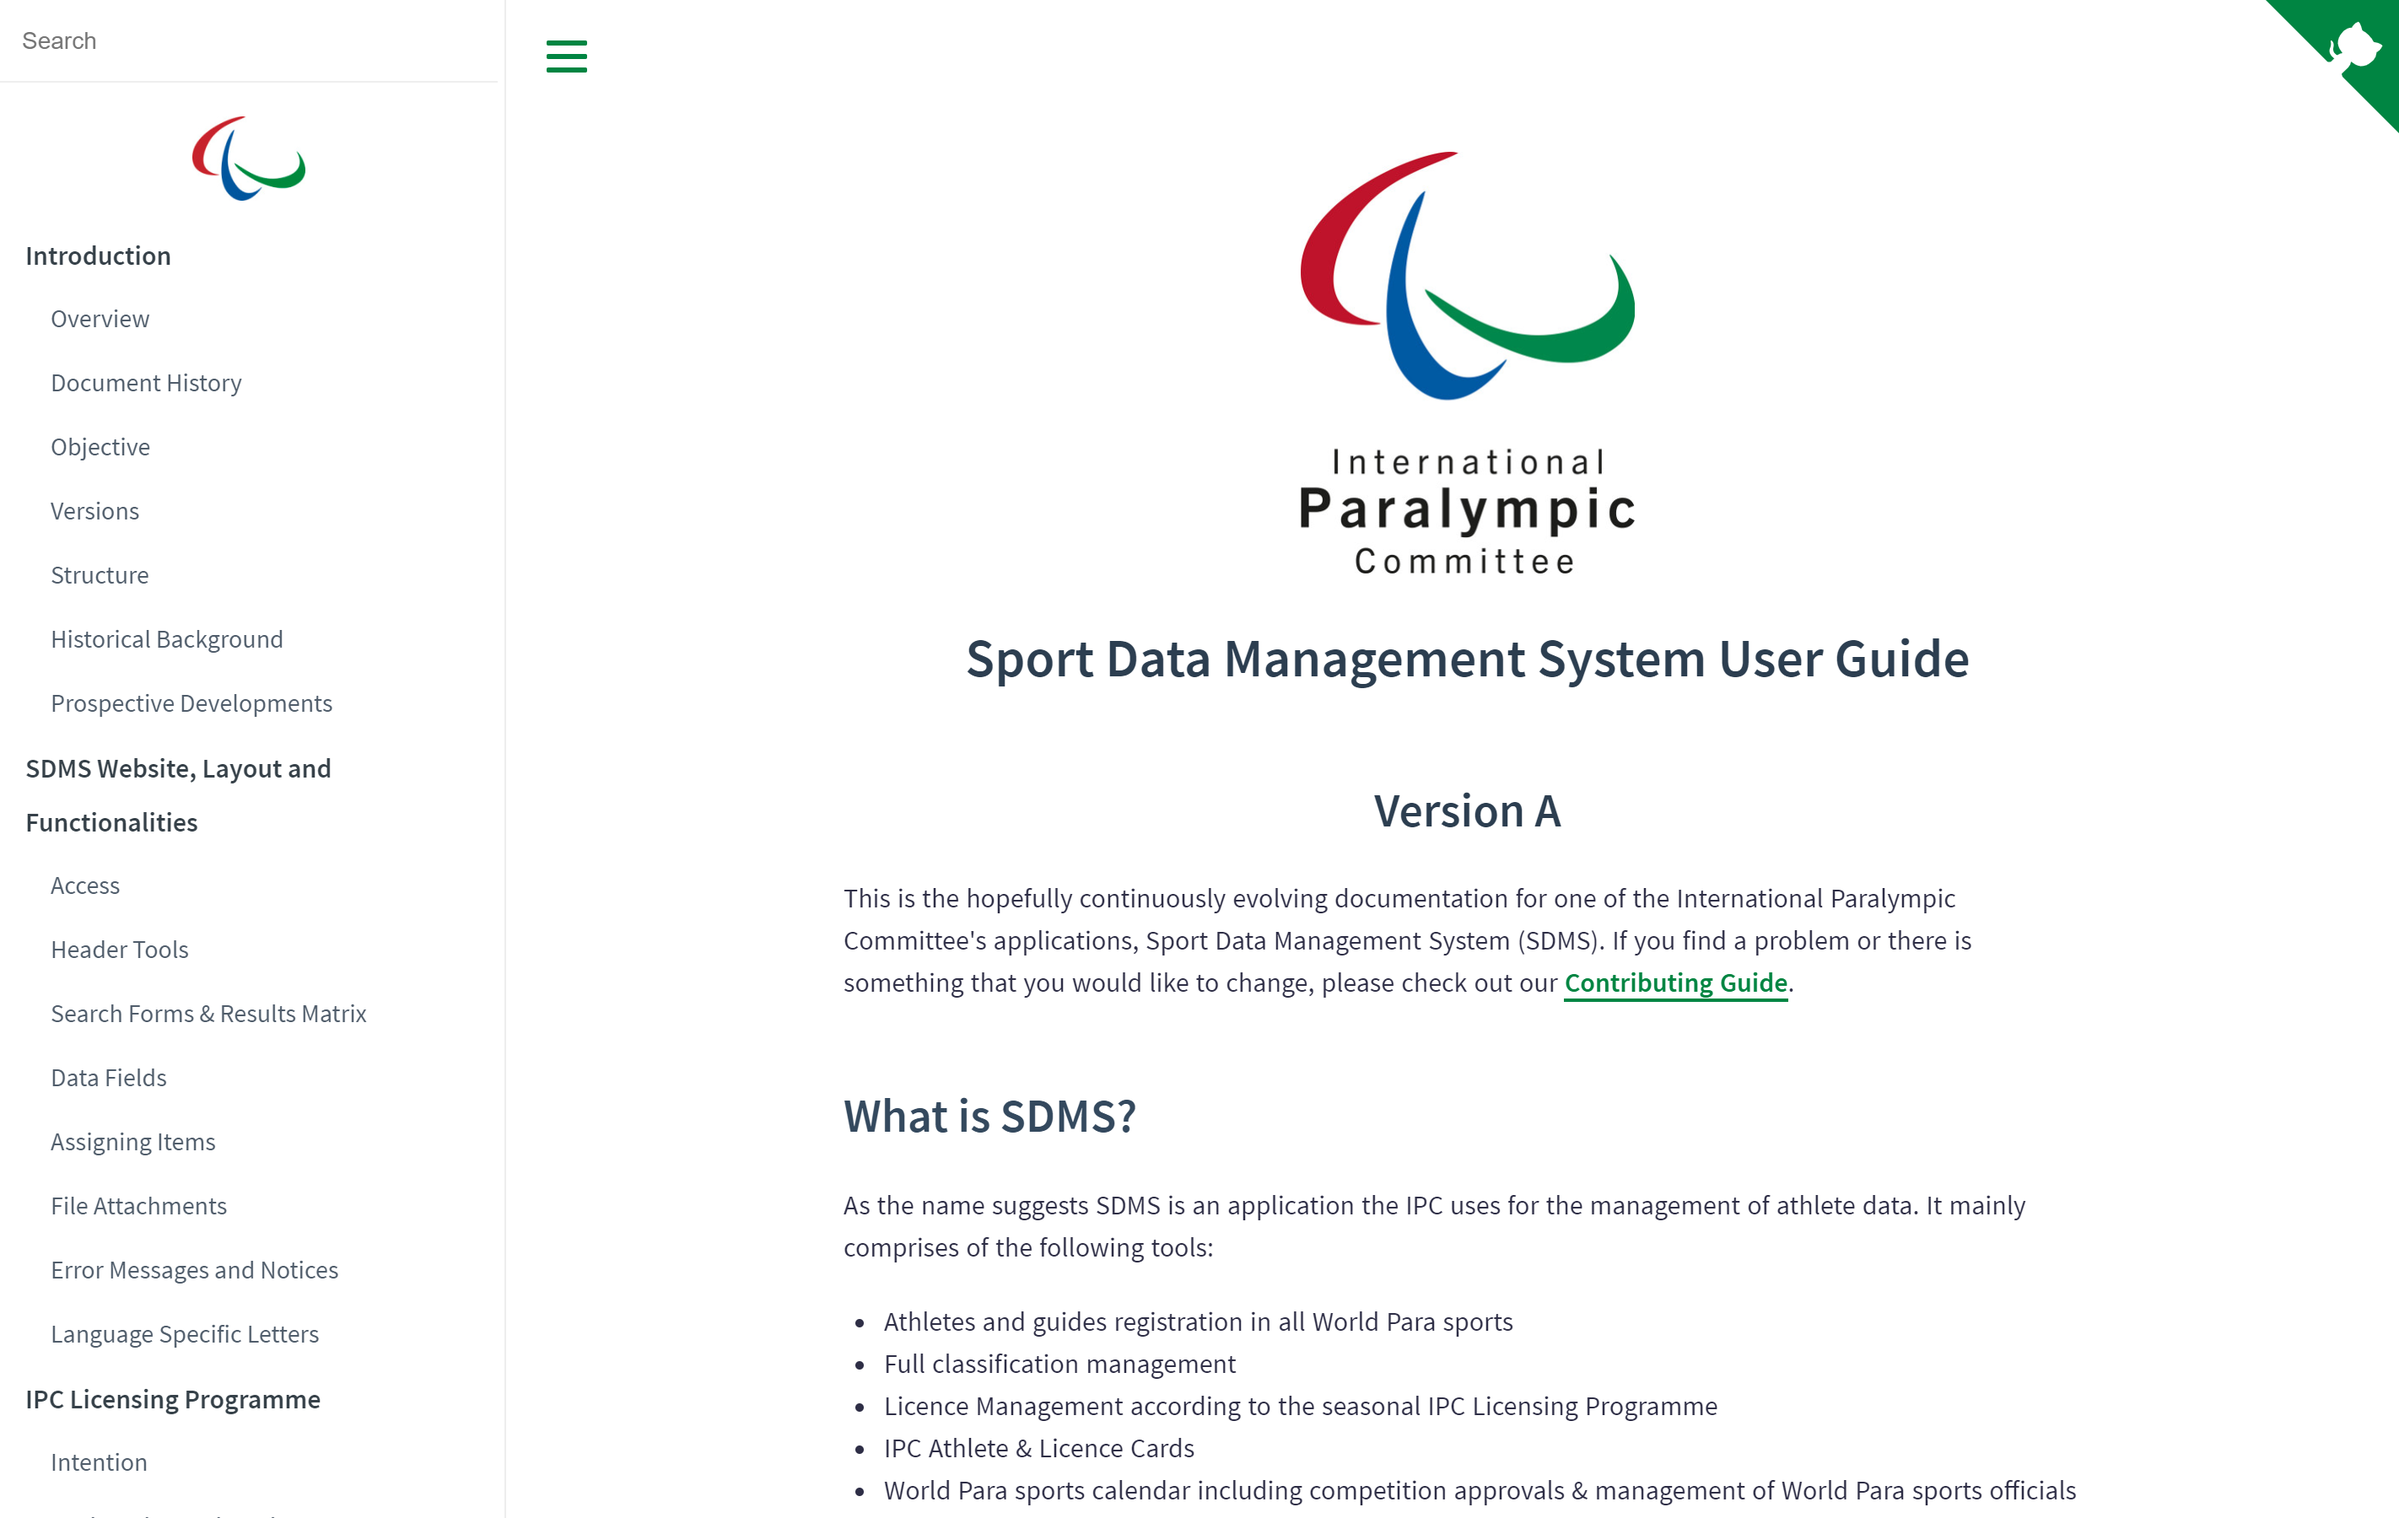
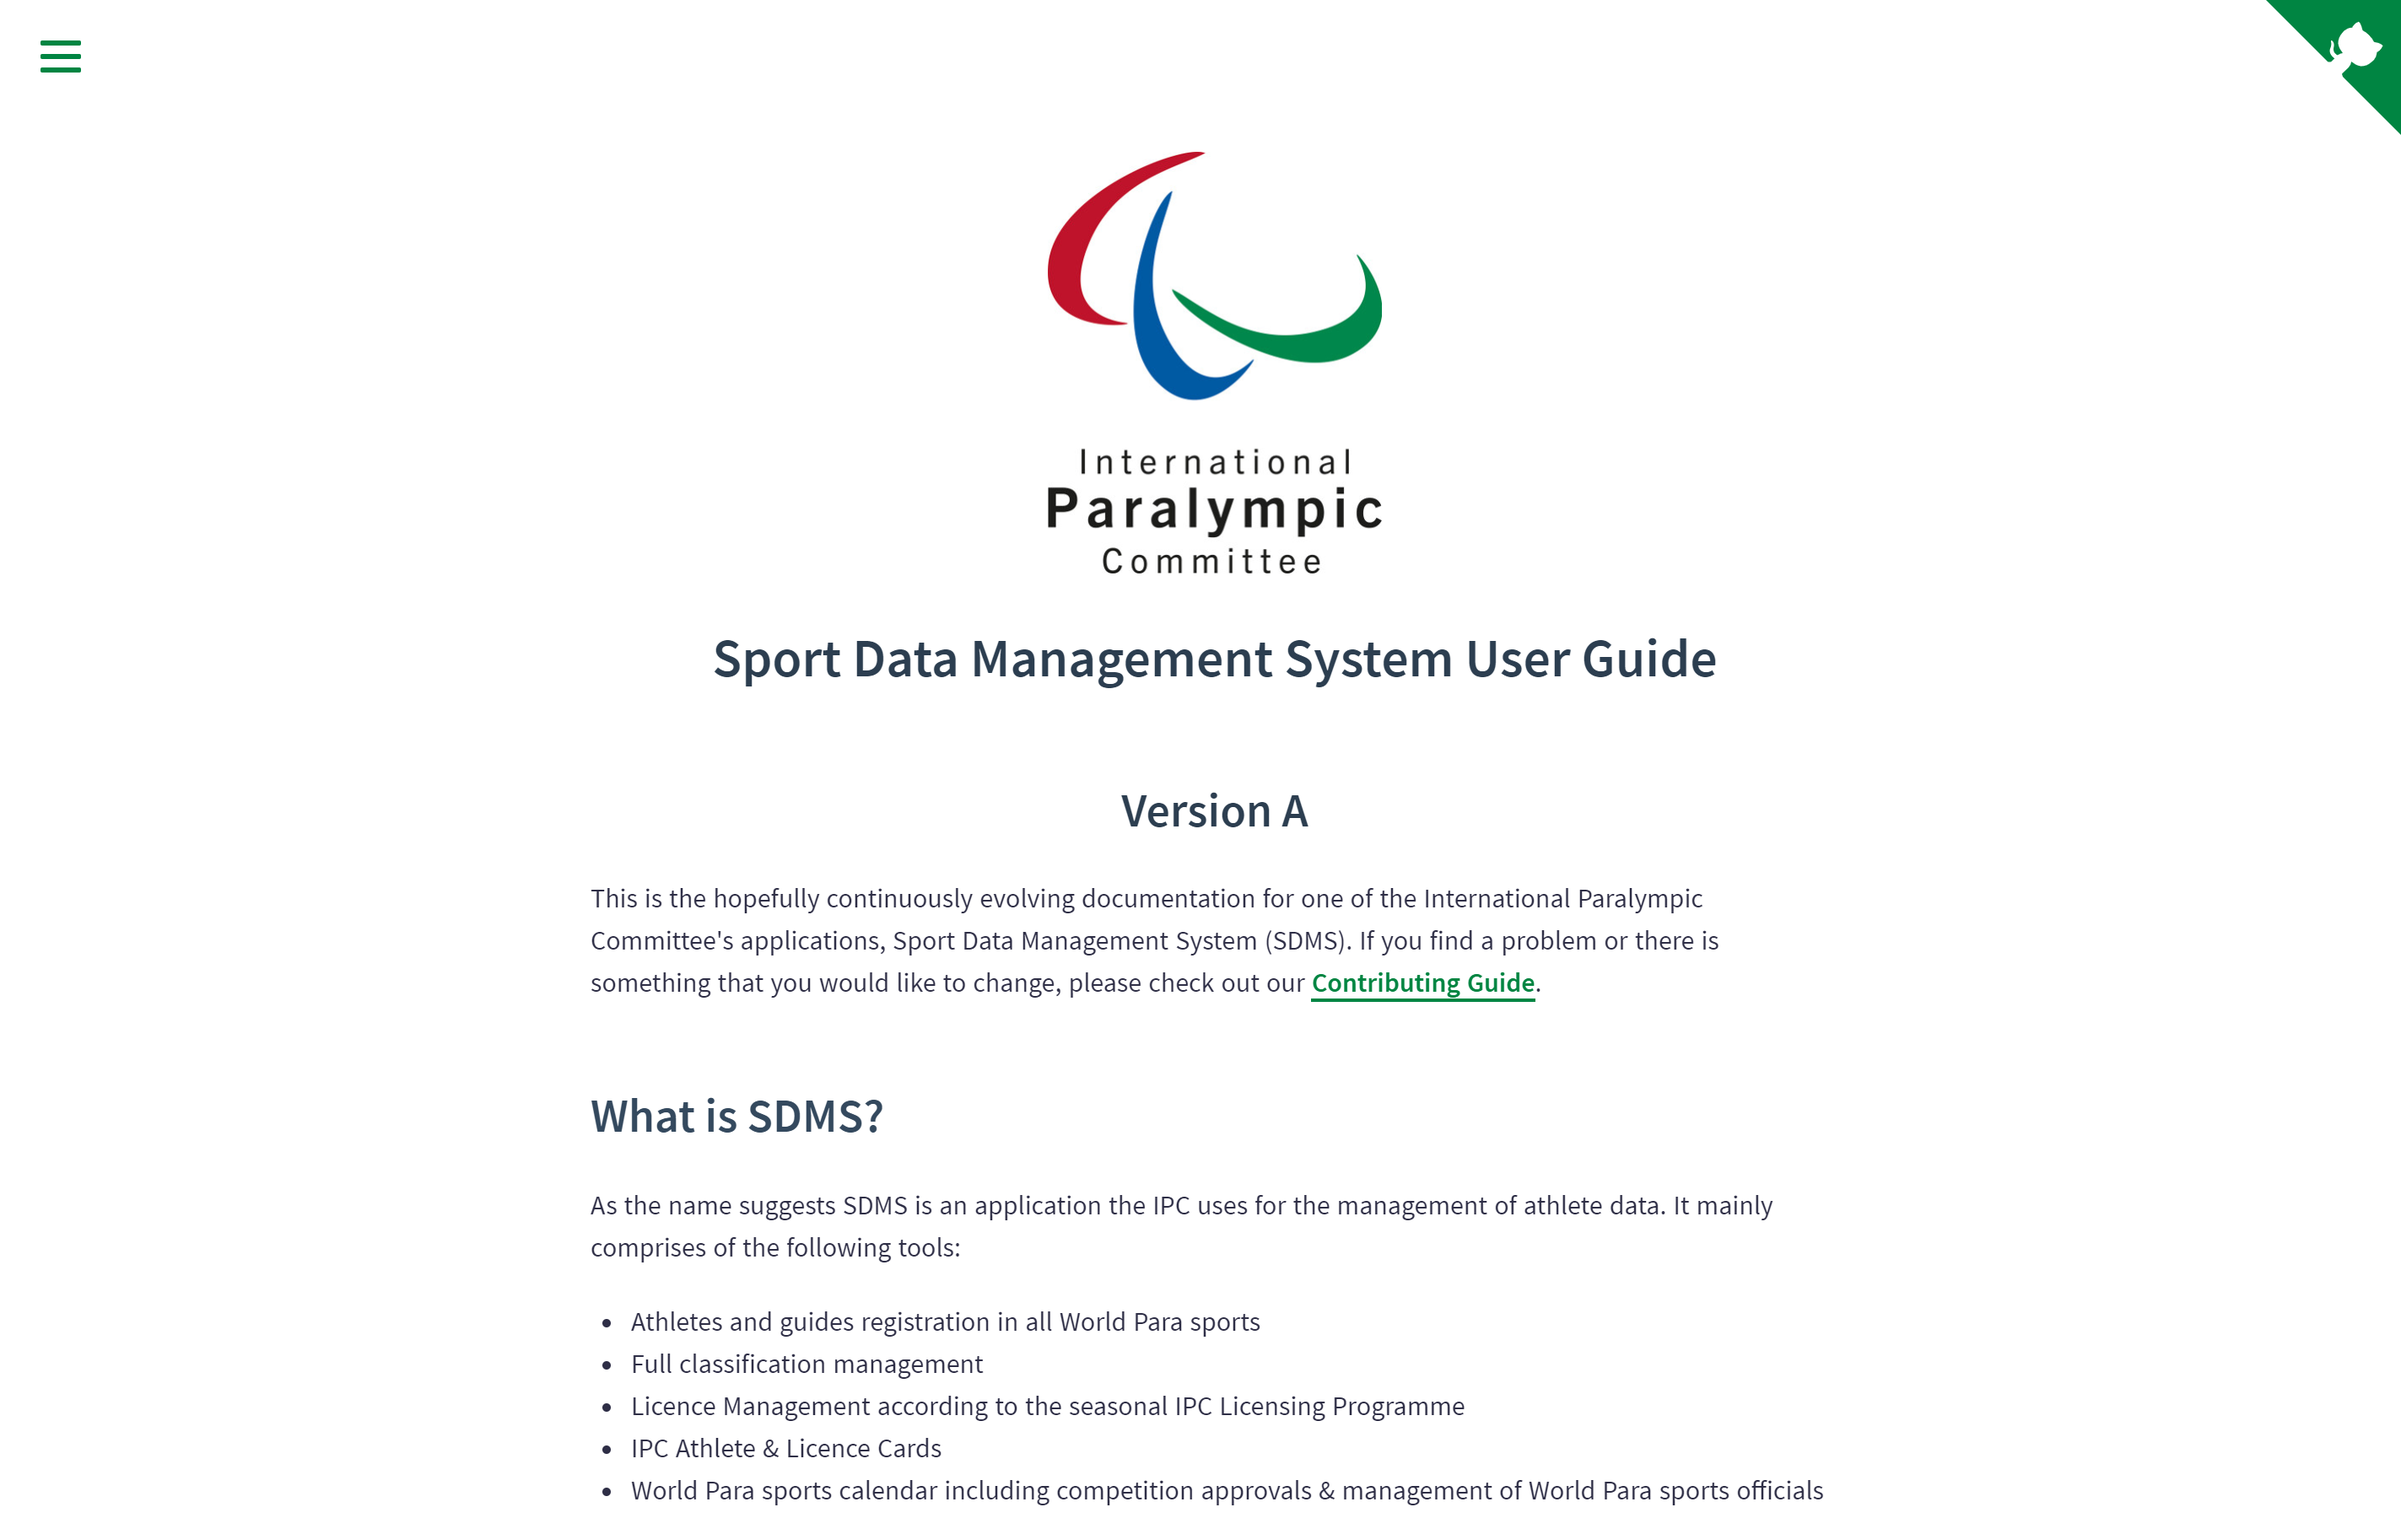
Change to ems for padding, margin and font size

diff --git a/css/style.css b/css/style.css
@@ -7,13 +7,12 @@
     --white: #fff;
     --grey: #C6C6C6;
     --black: #000;
-    
+
     --font-stack: Calibri, Arial, Helvetica, sans-serif;
 }
 
 html,
 body {
-    height: 100%;
     margin: 0;
     padding: 0;
 }
@@ -25,14 +24,14 @@ body {
 
 h1 {
     font-family: var(--font-stack);
-    font-size: 24px;
+    font-size: 1.5em;
     font-weight: 700;
 }
 
 p,
 span {
     font-family: var(--font-stack);
-    font-size: 12px;
+    font-size: 0.75em;
     font-weight: 400;
 }
 
@@ -40,8 +39,7 @@ span {
 .header {
     color: var(--ipc-blue);
     text-align: center;
-    background-color: transparent;
-    padding: 20px 0 20px 0;
+    padding-top: 1.5em;
 }
 
 .header__logo img {
@@ -115,8 +113,8 @@ span {
 #nav a {
     display: block;
     color: var(--white);
-    padding: 0.15em 0;
-    margin-bottom: 0.75em;
+    padding: 0.25em 0;
+    margin-bottom: 1.25em;
     font-size: 1.5em;
     text-decoration: none;
     font-weight: 700;
@@ -181,7 +179,7 @@ span {
     -ms-transition: all 0.3s ease-in;
     transition: all 0.3s ease-in;
     z-index: 1;
-    padding: 72px 0;
+    padding: 6.25em 0;
     text-align: center;
 }
 
@@ -208,14 +206,13 @@ span {
     top: 35px;
     left: 25px;
     z-index: 10;
-    height: 24px;
+    height: 1.5em;
 }
 
 #menu {
     height: 4px;
     width: 1.5em;
     background-color: var(--ipc-green);
-    margin-top: 8px;
 }
 
 #menu:after,
@@ -263,15 +260,15 @@ span {
 
 .github-cards {
     display: grid;
-    grid-template-columns: .5fr .5fr;
+    grid-template-columns: 35% 35%;
+    grid-column-gap: 200px;
     justify-items: stretch;
     align-items: stretch;
-    margin-top: .25em;
+    margin-left: 200px;
 }
 
 .github-card {
     background-color: var(--white);
-    margin: 0 6.25em 4.75em;
     padding: 1.5em;
     border: 1px solid var(--ipc-green);
     -webkit-border-radius: 4px;
@@ -301,12 +298,16 @@ span {
 
 .github-card__screenshot {
     max-width: 100%;
-    margin-bottom: 1.5em;
+    height: auto;
+    /* border-radius */
     -webkit-border-radius: 4px;
     -moz-border-radius: 4px;
     -ms-border-radius: 4px;
     border-radius: 4px;
-    box-shadow: 0 2px 5px var(--ghostwhite);
+    /* box-shadow */
+    -webkit-box-shadow: 1px 1px 5px 0px rgba(0, 0, 0, 0.5);
+    -moz-box-shadow: 1px 1px 5px 0px rgba(0, 0, 0, 0.5);
+    box-shadow: 1px 1px 5px 0px rgba(0, 0, 0, 0.5);
 }
 
 .github-card__meta {
@@ -338,8 +339,8 @@ span {
     font-size: 0.75em;
     text-align: center;
     color: var(--white);
-    width: 100%;
     position: fixed;
+    width: 100%;
     bottom: 0;
     left: 0;
     z-index: 999992;
